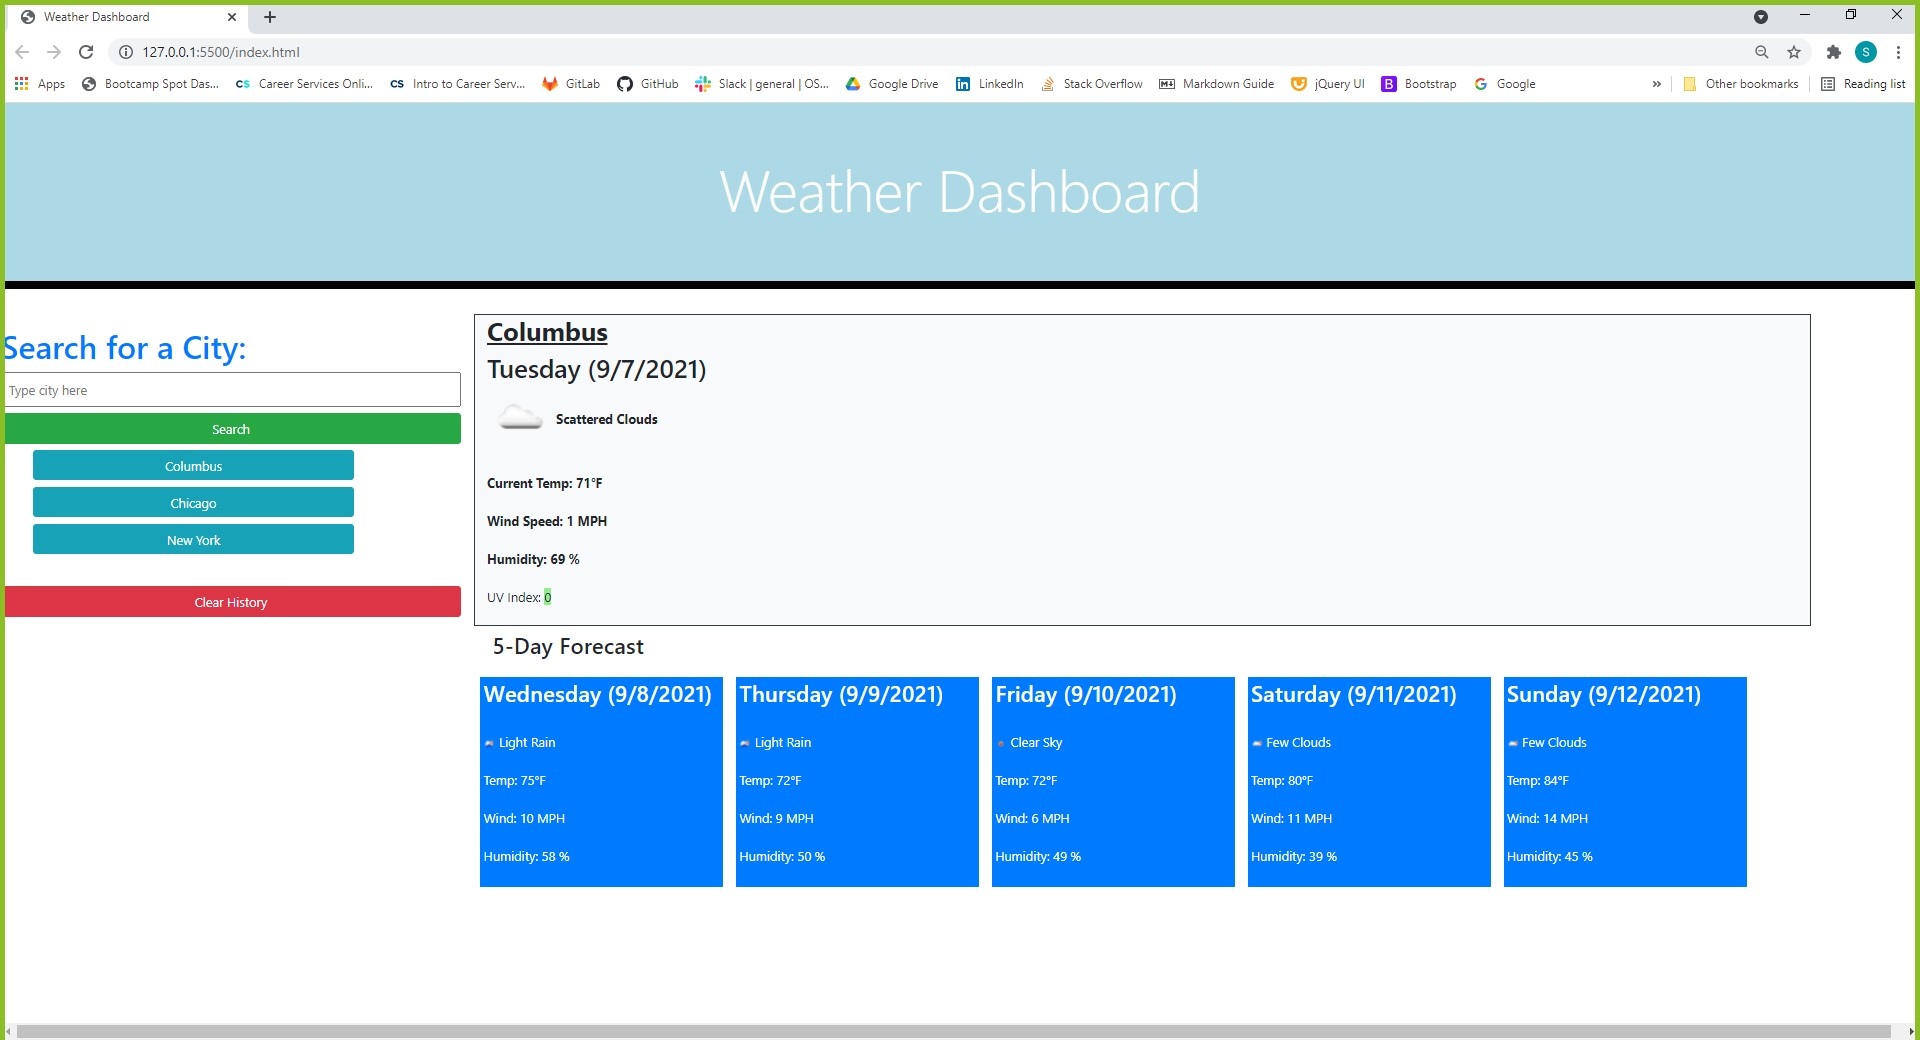
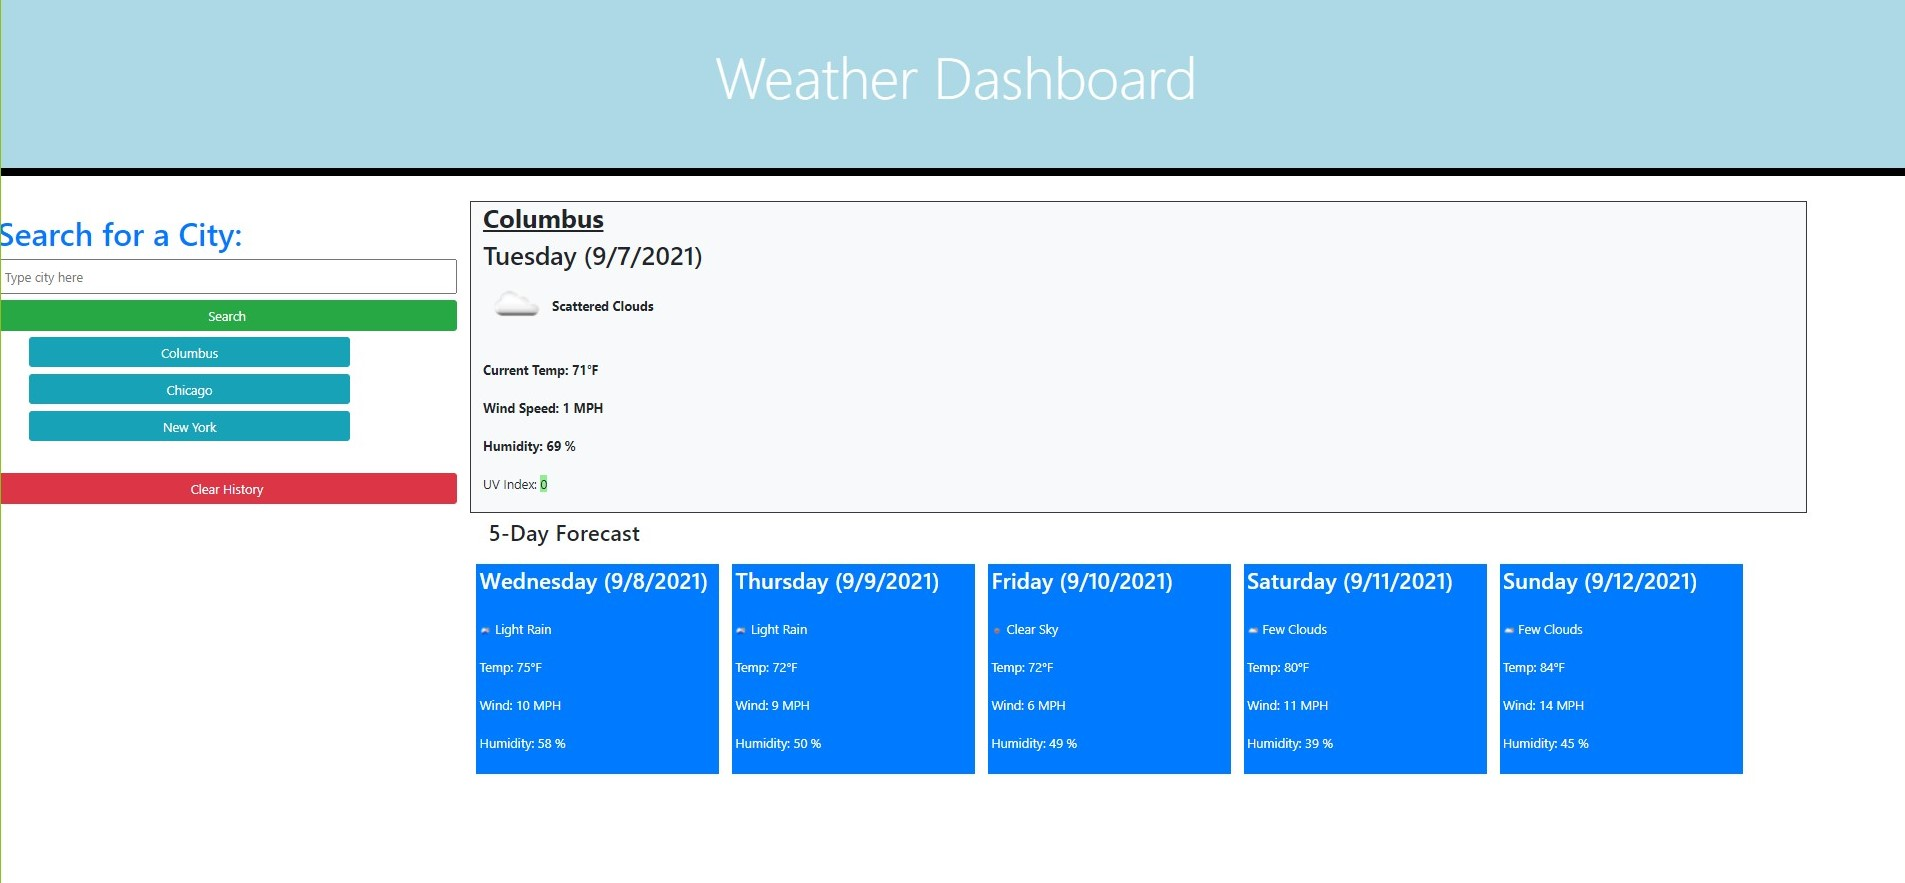
Changed styles and made mobile friendly

diff --git a/assets/js/script.js b/assets/js/script.js
@@ -7,12 +7,16 @@ function populateSearchHistory (city){
     if (!searchHistory.includes(city)){
         searchHistory.push(city);
             $("#searchcontent").append(`
-            <li class="text-capitalize btn btn-info btn-block gap-2 w-75">${city}</li>
+            <li class="text-capitalize btn btn-info btn-block gap-2 w-100">${city}</li>
             `)
-            
+            document.getElementById("clearHistory").style.visibility = "visible";
             localStorage.setItem("searchInput", searchHistory);
         };
 }
+
+function changeVisibility() {
+    document.getElementById("clearHistory").style.visibility = "hidden";
+  }
 
 // function called after a search is made
 function getWeather(evt){    
@@ -55,7 +59,7 @@ function getWeatherByCity(searchInput){
                 
                 // create container in html for city's current weather
                 $("#currentCityWeather").empty();
-                $("#currentCityWeather").addClass("col-11 border border-dark bg-light");
+                $("#currentCityWeather").addClass("col-11 m-3 border border-dark bg-light");
                 $("#currentCityWeather").append(`
                     <h2><strong><u>${data.name}</u></stong><br></h2>
                     <h2>${currentDate}</h2>
@@ -97,7 +101,7 @@ function getWeatherByCity(searchInput){
                             $("#header-5day").empty();                            
                             // Create a header for the 5 day forecast
                             $("#header-5day").append(`
-                            <h3 class="p-2">5-Day Forecast</h3>`);
+                            <h3 class="m-2 p-2">5-Day Forecast</h3>`);
                             
                             // loop used to create 5 containers for the 5 day forecast
                             for(var i = 1; i < 6; i++){
@@ -109,7 +113,7 @@ function getWeatherByCity(searchInput){
                                 // container if there was a previous search
                                 $(`#day-${i}-forecast`).empty();
                                 // adding class with bootstrap library for styling
-                                $(`#day-${i}-forecast`).addClass("col-md-2 p-1 m-2 text-white bg-primary");
+                                $(`#day-${i}-forecast`).addClass("col-md-2 m-2 text-white bg-primary");
                                 // Create the container with a future day's data
                                 $(`#day-${i}-forecast`).append(`
                                     <h3 class="fs-1">${date}</h3>

diff --git a/index.html b/index.html
@@ -24,28 +24,25 @@
 
   <body>
     <header class="jumbotron">
-      <h1 class="display-3">Weather Dashboard</h1>
+      <h1 class="display-3"><b>Weather Dashboard</b></h1>
     </header>
   <div class="row">
-    <nav class="col-3 col-md-3 p-3"><!-- Start Nav Cell -->
+    <div class="col-md-3 p-3 m-3"><!-- Start Nav Cell -->
       <h1 class="text-primary">Search for a City:</h1>
       <form id="search-form" class="mb-2">
         <input id="search-input" class="form-input w-100 p-2 mb-2" type="text" placeholder="Type city here">
         <button id="search-btn" class="btn btn-success btn-block">Search</button>
       </form>
-      <div>
-        <ul id="searchcontent">
-
-        </ul>
+      <div id="searchcontent">
       </div><br/>
-      <button id="clearHistory" class="btn btn-danger btn-small btn-block">Clear History
+      <button id="clearHistory" onclick="changeVisibility()" class="btn btn-danger btn-small btn-block">Clear History
 
       </button>
-    </nav><!-- End nav cell -->
+    </div><!-- End nav cell -->
 
-    <div id="content" class="col-9">
+    <div id="content" class="col-md-8">
 
-        <div class="row">
+        <div class="row m-2">
           <div id="currentCityWeather">
           <!--Current Weather container-->
           </div>
@@ -55,7 +52,7 @@
             <!-- 5 day forcast header -->
           </div>
         </div>
-        <div class="row">
+        <div class="row m-2">
           <div id="day-1-forecast">
             <!-- 5 day forcast day 1 container -->
           </div>  

diff --git a/assets/css/style.css b/assets/css/style.css
@@ -1,6 +1,6 @@
 .jumbotron {
     text-align: center;
-    background-color: lightblue;
+    background-color: rgb(28, 197, 253);
     color: White;
     border-radius: 0;
     border-bottom: 10px solid black;
